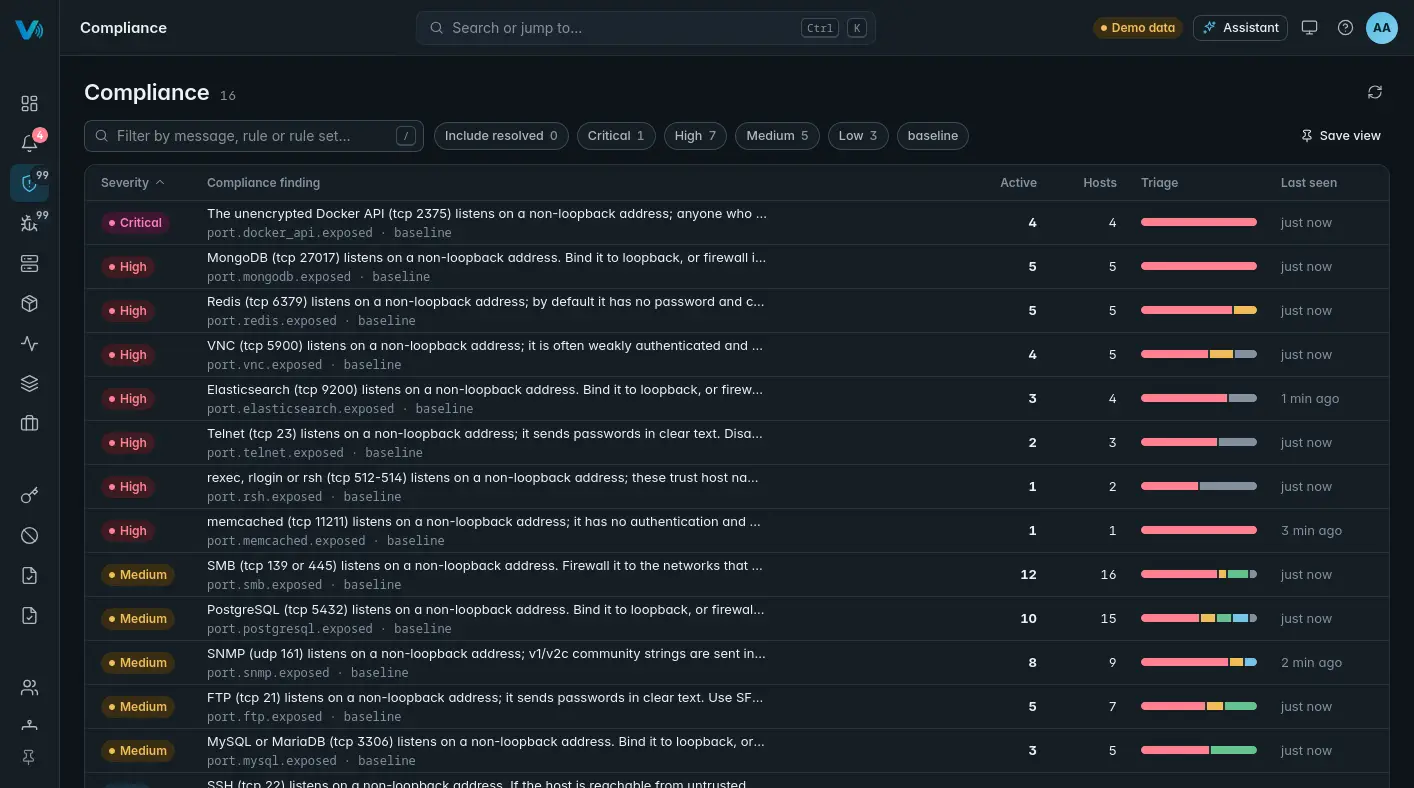
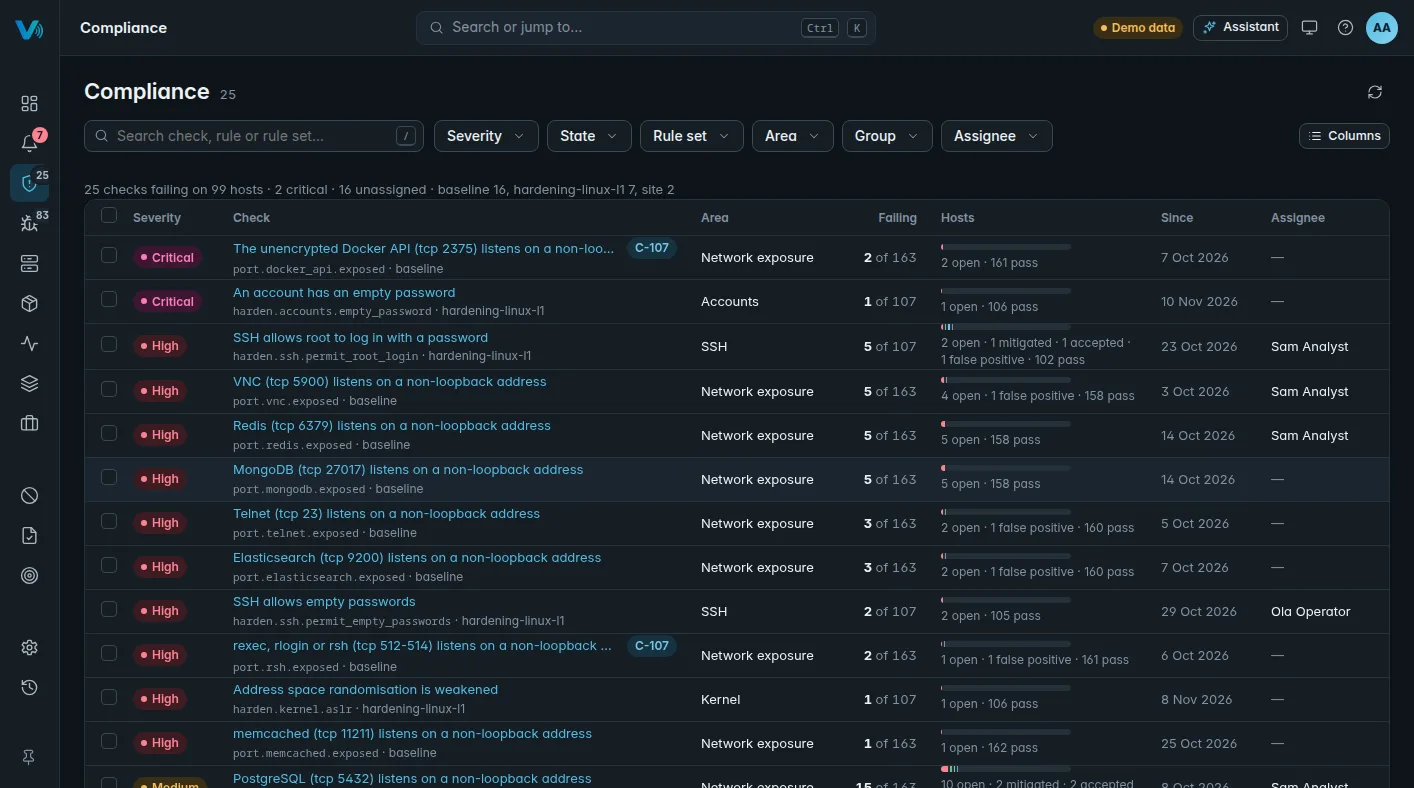
Site and README for 0.3.0
The site says Release 0.3, lists what 0.3 brought and what comes next,
adds the Windows agent preview, and uses the current admin menu and
Enrollment wording. The five screenshots are new, from the demo. The
README is short; publishing and key replacement move to
docs/publishing.md.

Part of openvibes-project/openvibes-platform#595.

diff --git a/index.html b/index.html
@@ -25,7 +25,7 @@
         <li><a href="https://github.com/openvibes-project">GitHub</a></li>
       </ul>
     </nav>
-    <span class="pill">Early release 0.2 · free and open source (Apache 2.0)</span>
+    <span class="pill">Release 0.3 · free and open source (Apache 2.0)</span>
     <h1>See what runs on your machines, and what threatens them.</h1>
     <p class="lead">A light, self-hosted security platform for homelabs and small businesses: vulnerabilities, compliance, threat alarms and an optional AI assistant that runs on your platform, in one fast console.</p>
     <div class="btns">
@@ -34,7 +34,7 @@
       <span class="note">Free · self-hosted · platform on Fedora 44</span>
     </div>
     <div class="frame"><div class="bar" aria-hidden="true"><i></i><i></i><i></i></div>
-      <img class="screen" src="assets/dashboard.webp" width="1414" height="788" alt="The OpenVIBES console's dashboard: active alarms, critical and high findings and exploited vulnerabilities with their trends, what needs attention first, and the most exposed hosts.">
+      <img class="screen" src="assets/dashboard.webp" width="1414" height="788" alt="The OpenVIBES console's dashboard: active alarms, critical and high findings and exploited vulnerabilities with their trends, what needs attention first, findings by severity and the most exposed hosts.">
     </div>
   </div>
 </header>
@@ -48,19 +48,19 @@
     <h3>Know what's vulnerable</h3>
     <p>Every host reports its installed software. OpenVIBES matches it against the distributions' own security advisories and puts known-exploited vulnerabilities first.</p>
     <ul><li>Fedora, Debian, Ubuntu, Rocky Linux and AlmaLinux advisories</li><li>Software, open ports and services per host</li></ul>
-  </div><div class="shot"><img class="screen" src="assets/vulnerabilities.webp" width="1414" height="788" loading="lazy" alt="The Vulnerabilities view: security advisories with their severity, CVSS and EPSS scores, known-exploited markers and the number of affected hosts."></div></div>
+  </div><div class="shot"><img class="screen" src="assets/vulnerabilities.webp" width="1414" height="788" loading="lazy" alt="The Vulnerabilities list: one row per CVE with its severity, package and fixed version, CVSS and EPSS scores, known-exploited markers, open hosts and due dates."></div></div>
 
   <div class="feat rev"><div class="txt">
     <h3>Check your baseline</h3>
-    <p>Signed compliance rules run on every host. The baseline flags services exposed to the network, such as the Docker API, Redis or a database, and risky servers like Telnet and rsh. Write your own rules and sign them on your platform.</p>
-    <ul><li>Baseline rules included</li><li>Your own rules, your own signing key</li></ul>
-  </div><div class="shot"><img class="screen" src="assets/compliance.webp" width="1414" height="788" loading="lazy" alt="The Compliance view: baseline findings such as an exposed Docker API, MongoDB or Redis, by severity, with how many hosts each affects and their triage."></div></div>
+    <p>Signed rules run on every host. The baseline flags services exposed to the network, such as the Docker API, Redis or a database, and risky servers like Telnet and rsh. Linux hardening checks sshd, kernel settings, file permissions, mounts and more. Write your own rules and sign them on your platform.</p>
+    <ul><li>Baseline and Linux hardening rules included</li><li>Choose which host groups run which rules</li><li>Your own rules, your own signing key</li></ul>
+  </div><div class="shot"><img class="screen" src="assets/compliance.webp" width="1414" height="788" loading="lazy" alt="The Compliance list: one row per failing check, such as an exposed Docker API, an account with an empty password or SSH allowing root to log in with a password, with how many hosts fail it."></div></div>
 
   <div class="feat"><div class="txt">
     <h3>Hear about threats in seconds</h3>
     <p>The agent watches every program start, with eBPF and kernel audit as the fallback. A web server starting a shell is in your console seconds later, with why the rule fired and the process tree.</p>
-    <ul><li>Built-in rules, e.g. a web or database server starting a shell</li><li>Quiet by default; suppress what is normal for you</li><li>Triage, cases and an audit trail</li></ul>
-  </div><div class="shot"><img class="screen" src="assets/alarm.webp" width="1414" height="788" loading="lazy" alt="An alarm, 'A web server started a shell', with the condition that matched and the values seen."></div></div>
+    <ul><li>Built-in rules, e.g. a web or database server starting a shell, each mapped to MITRE ATT&amp;CK</li><li>Quiet by default; suppress what is normal for you, with a second person's approval if you want it</li><li>Triage, cases and an audit trail</li></ul>
+  </div><div class="shot"><img class="screen" src="assets/alarm.webp" width="1414" height="788" loading="lazy" alt="The Alarms list: a web server or a database server that started a shell, and a shell that downloaded a program and ran it, each with its host, MITRE ATT&amp;CK techniques, count and state."></div></div>
 
   <div class="feat rev"><div class="txt">
     <h3>Ask in plain words</h3>
@@ -84,24 +84,25 @@
 
 <section class="block"><div class="wrap">
   <div class="kicker">Where it stands</div>
-  <h2>An early release, moving fast</h2>
+  <h2>Young, and moving fast</h2>
   <div class="two">
     <div class="box"><h3>Runs on today</h3><ul>
       <li>Platform: Fedora 44 (x86_64), online or with no internet at all (<a href="packages.html#offline">offline kit</a>), 2 GB RAM and 1 vCPU: in the lab that size served 500 simulated agents without swapping</li>
       <li>Agents: Fedora 44, AlmaLinux and Rocky Linux 9+, Debian 12+, Ubuntu 22.04+ and Arch (x86_64), each from its own signed package, installed with the command the console gives you</li>
+      <li>Windows agent (preview): Windows 10 and 11, Windows Server 2016 to 2025; software inventory for now</li>
       <li>Threat alarms from eBPF on Linux 5.8 and later (kernel audit as the fallback)</li>
-      <li>Vulnerability data for Fedora, Debian, Ubuntu, Rocky Linux and AlmaLinux hosts</li>
+      <li>Vulnerability data for Fedora, Debian, Ubuntu, Rocky Linux and AlmaLinux hosts, also without internet, from a mirror or a file</li>
     </ul></div>
-    <div class="box"><h3>Coming in 0.3</h3><ul>
-      <li>A rebuilt admin menu on the platform host: guided install, update with a backup first, repair, certificates and optional parts</li>
-      <li>Roles and permissions: your own roles, host groups and labels, and suppressions that need a second person's approval</li>
-      <li>Linux hardening checks (sshd, sysctls, file modes, mounts and more), switched on per host group</li>
-      <li>New list and detail pages with saved views, starting with Hosts and Alarms</li>
-    </ul><h3>After that</h3><ul>
+    <div class="box"><h3>New in 0.3</h3><ul>
+      <li>Roles and people: your own roles, host groups and labels, and single sign-on through SAML</li>
+      <li>Linux hardening checks on every host, switched per host group</li>
+      <li>A list and a page for everything: hosts, alarms, vulnerabilities, compliance, software, ports, services and cases, with saved views</li>
+      <li>A finished admin menu on the platform host: guided install, updates with a backup first, repair and certificates that renew themselves</li>
+    </ul><h3>Next</h3><ul>
+      <li>Fully offline agent install from the console (0.3.1)</li>
       <li>Alarms from your UniFi gateway's IPS/IDS, set up in the console</li>
-      <li>Fully offline agent install from the console</li>
+      <li>Windows: ports, services, threat alarms and vulnerability matching</li>
       <li>Platform on AlmaLinux and Rocky Linux</li>
-      <li>Windows agent</li>
     </ul></div>
   </div>
 </div></section>
@@ -112,8 +113,8 @@
   <ol class="steps">
     <li class="step"><span class="n" aria-hidden="true">1</span><div><b>Install the platform</b> on a Fedora 44 host, as your own user:
       <pre><code>sudo sh -c "$(curl -fsSL https://openvibes-project.github.io/install.sh)"</code></pre></div></li>
-    <li class="step"><span class="n" aria-hidden="true">2</span><div><b>Run Setup.</b> It opens by itself: enter the host name others will use, press Start, and write down the admin password it shows once.</div></li>
-    <li class="step"><span class="n" aria-hidden="true">3</span><div><b>Add hosts</b> from the console: Enrollment → Add a host → Copy CLI install, then paste it into a root shell on each host.</div></li>
+    <li class="step"><span class="n" aria-hidden="true">2</span><div><b>Install.</b> The admin menu opens by itself: choose Quick install, enter the host name your other hosts will use, choose Install, and write down the admin password it shows at the end.</div></li>
+    <li class="step"><span class="n" aria-hidden="true">3</span><div><b>Add hosts</b> from the console: Settings › Enrollment › Add a host gives you a command to run as root on each Linux host, and an install line for Windows.</div></li>
   </ol>
   <p class="note">Full walkthrough: the <a href="https://github.com/openvibes-project/openvibes-platform/blob/main/docs/quick-setup.md">quick setup guide</a>. Prefer to read the script first? Download <a href="install.sh">install.sh</a>, read it, then run <code>sudo sh install.sh</code>. No output at all means the download failed. Package repository and signing key: <a href="packages.html">Packages</a>.</p>
 </div></section>

diff --git a/packages.html b/packages.html
@@ -25,8 +25,8 @@
 <section class="block">
   <h2>Install the platform</h2>
   <pre><code>sudo sh -c "$(curl -fsSL https://openvibes-project.github.io/install.sh)"</code></pre>
-  <p>It adds this repository, installs the administration tool and opens its Setup. No output at all means the download failed: check your connection and run it again. Safer: download <a href="install.sh">install.sh</a>, read it, then run <code>sudo sh install.sh</code>.</p>
-  <p>In Setup, choose the assistant and answer <b>Y</b> to download the model. To add it later, turn the assistant on in Setup: it downloads the model itself.</p>
+  <p>It adds this repository, installs the administration tool and opens its Install screens. No output at all means the download failed: check your connection and run it again. Safer: download <a href="install.sh">install.sh</a>, read it, then run <code>sudo sh install.sh</code>.</p>
+  <p>For the assistant, tick it under Optional in Choose what to install: the install downloads the model. To add it later: <code>sudo openvibes-admin</code>, then Maintenance › Optional parts.</p>
 </section>
 <section class="block" id="offline">
   <h2>Install without internet</h2>
@@ -42,7 +42,7 @@
 </section>
 <section class="block">
   <h2>Add an agent</h2>
-  <p>In the console: Enrollment → Add a host, then Copy CLI install or Install package. On the platform host, <code>sudo openvibes-admin agent command</code> prints the same command.</p>
+  <p>In the console: Settings › Enrollment › Add a host, then the install command or Install package (Linux), or the Windows line. On the platform host, <code>sudo openvibes-admin agent command</code> prints the same command.</p>
 </section>
 <section class="block">
   <h2>The repositories</h2>

diff --git a/README.md b/README.md
@@ -1,71 +1,47 @@
 <p align="center">
   <picture>
     <source media="(prefers-color-scheme: dark)" srcset="assets/wordmark-dark.svg">
-    <img src="assets/wordmark-light.svg" alt="OpenVIBES" width="560">
+    <img src="assets/wordmark-light.svg" alt="OpenVIBES" width="520">
   </picture>
 </p>
 
 <h3 align="center">OpenVIBES website and packages</h3>
 
 <p align="center">
-  The website, the signed package repositories (RPM, apt, pacman) and the
-  installer, published at <a href="https://openvibes-project.github.io/">openvibes-project.github.io</a>.
+  The website of <a href="https://github.com/openvibes-project">OpenVIBES</a>, its installer and its signed package
+  repositories, published at <a href="https://openvibes-project.github.io/">openvibes-project.github.io</a>.
 </p>
 
----
+## What's here
 
-The OpenVIBES package repository and installer, published at
-<https://openvibes-project.github.io/>:
+- **The website:** `index.html` and `packages.html`.
+- **The installer, `install.sh`.** For a platform on Fedora 44:
 
-- `install.sh`: `sudo sh -c "$(curl -fsSL https://openvibes-project.github.io/install.sh)"`
-  installs the platform's administration tool and opens its Setup;
-  `curl -fsSL …/install.sh | sudo sh -s -- --agent --platform HOST --token TOKEN --ca-sha256 FP`
-  installs and enrolls an agent. The platform on Fedora 44; agents on
-  Fedora 44, AlmaLinux and Rocky 9+, Debian 12+, Ubuntu 22.04+ and Arch;
-  x86_64.
-- `rpm/fedora/44/x86_64/`: every released RPM of
-  [openvibes-platform](https://github.com/openvibes-project/openvibes-platform),
-  [openvibes-agent](https://github.com/openvibes-project/openvibes-agent) and
-  [openvibes-rules](https://github.com/openvibes-project/openvibes-rules),
-  with `repodata/repomd.xml.asc`. The assistant's model parts
-  (`openvibes-llm-model-part*`) are not published: the model comes from its
-  publisher.
-- `deb/`: a flat apt repository of the agent's .deb packages (`InRelease`
-  clear-signed, valid 30 days).
-- `arch/x86_64/`: a pacman repository of the agent's Arch packages
-  (`openvibes.db.sig`).
-- `packages.html`: the repositories, the key, and the platform's offline
-  kit.
-- `openvibes.gpg`: the package key, fingerprint
-  `710AD8AFB7AFE6E864C0CDC4E134BAF37786DA36` (expires 2029-09-26), also
-  written into `install.sh`. Check: `gpg --show-keys openvibes.gpg`.
+  ```sh
+  sudo sh -c "$(curl -fsSL https://openvibes-project.github.io/install.sh)"
+  ```
 
-No package is ever committed here. A release in openvibes-platform,
-openvibes-agent or openvibes-rules signs its packages (RPMs inside; .deb and
-Arch packages with a detached `.sig`) and checks them. Every 30
-minutes `.github/workflows/publish.yml` compares the release list
-(`scripts/releases.sh`) with the deployed `releases.txt`; when it changed
-(or on a push or a manual run: `gh workflow run publish.yml`), it collects
-every release
-(`scripts/collect.sh`), refuses to publish if any package fails the key
-check, indexes and signs the metadata of all three repositories
-(`scripts/build-repo.sh`), and deploys the site. It also rebuilds when the
-deployed apt index has less than 14 days of validity left. `tests/test-build-repo.sh` tests that (CI). No token is involved.
-GitHub disables schedules after 60 days without a commit here; if that
-happens, re-enable the workflow under Actions.
+  It also installs and enrolls agents; the platform console gives you that
+  command with everything filled in.
+- **Signed package repositories** for every release of the platform, the
+  agent and the rules: RPM (`rpm/`), apt (`deb/`) and pacman (`arch/`).
+- **The package key**, `openvibes.gpg`, fingerprint
+  `710AD8AFB7AFE6E864C0CDC4E134BAF37786DA36`. Check it with
+  `gpg --show-keys openvibes.gpg`.
 
-## Replacing the key
+No package is committed here. A workflow collects the signed packages from
+each release, checks them against the key, and publishes the site.
+How that works, and how to replace the key:
+[`docs/publishing.md`](docs/publishing.md).
 
-1. Generate the new key and add its public half next to the old one in
-   `openvibes.gpg` and in both code repositories'
-   `packaging/rpm/openvibes-packages.gpg`.
-2. Replace the organisation secrets `RPM_SIGNING_KEY` and
-   `RPM_SIGNING_PASSPHRASE`; make a new release of each code repository so
-   every published package is signed by the new key (or re-sign the old
-   releases' assets).
-3. Update `KEY_FINGERPRINT` in `install.sh` and the fingerprint here and in
-   `index.html`; publish.
-4. Remove the old public key; publish. Revoke it if it was compromised
-   (the revocation certificate is kept offline with the secret key).
+## Contributing
 
-Spec: openvibes-platform `docs/specs/2026-09-27-releases-design.md`.
+Issues and pull requests are welcome; see [`CONTRIBUTING.md`](CONTRIBUTING.md).
+Security problems: please use private vulnerability reporting, not a public
+issue.
+
+**AI disclosure:** OpenVIBES is built with the help of AI coding tools
+(Claude Code and Codex). Every change goes through a pull request and the
+full CI before it is merged.
+
+Licensed under the [Apache License 2.0](LICENSE).

diff --git a/docs/publishing.md b/docs/publishing.md
@@ -1,0 +1,61 @@
+# Publishing the site and the package repositories
+
+How the site and its package repositories are built, and how to replace
+the signing key. The [README](../README.md) says what is published.
+
+## What is published
+
+- `install.sh`: `sudo sh -c "$(curl -fsSL https://openvibes-project.github.io/install.sh)"`
+  installs the platform's administration tool and opens its Setup;
+  `curl -fsSL …/install.sh | sudo sh -s -- --agent --platform HOST --token TOKEN --ca-sha256 FP`
+  installs and enrolls an agent. The platform on Fedora 44; agents on
+  Fedora 44, AlmaLinux and Rocky 9+, Debian 12+, Ubuntu 22.04+ and Arch;
+  x86_64.
+- `rpm/fedora/44/x86_64/`: every released RPM of
+  [openvibes-platform](https://github.com/openvibes-project/openvibes-platform),
+  [openvibes-agent](https://github.com/openvibes-project/openvibes-agent) and
+  [openvibes-rules](https://github.com/openvibes-project/openvibes-rules),
+  with `repodata/repomd.xml.asc`. The assistant's model parts
+  (`openvibes-llm-model-part*`) are not published: the model comes from its
+  publisher.
+- `deb/`: a flat apt repository of the agent's .deb packages (`InRelease`
+  clear-signed, valid 30 days).
+- `arch/x86_64/`: a pacman repository of the agent's Arch packages
+  (`openvibes.db.sig`).
+- `packages.html`: the repositories, the key, and the platform's offline
+  kit.
+- `openvibes.gpg`: the package key, fingerprint
+  `710AD8AFB7AFE6E864C0CDC4E134BAF37786DA36` (expires 2029-09-26), also
+  written into `install.sh`. Check: `gpg --show-keys openvibes.gpg`.
+
+## How it is built
+
+No package is ever committed here. A release in openvibes-platform,
+openvibes-agent or openvibes-rules signs its packages (RPMs inside; .deb and
+Arch packages with a detached `.sig`) and checks them. Every 30
+minutes `.github/workflows/publish.yml` compares the release list
+(`scripts/releases.sh`) with the deployed `releases.txt`; when it changed
+(or on a push or a manual run: `gh workflow run publish.yml`), it collects
+every release
+(`scripts/collect.sh`), refuses to publish if any package fails the key
+check, indexes and signs the metadata of all three repositories
+(`scripts/build-repo.sh`), and deploys the site. It also rebuilds when the
+deployed apt index has less than 14 days of validity left. `tests/test-build-repo.sh` tests that (CI). No token is involved.
+GitHub disables schedules after 60 days without a commit here; if that
+happens, re-enable the workflow under Actions.
+
+## Replacing the key
+
+1. Generate the new key and add its public half next to the old one in
+   `openvibes.gpg` and in both code repositories'
+   `packaging/rpm/openvibes-packages.gpg`.
+2. Replace the organisation secrets `RPM_SIGNING_KEY` and
+   `RPM_SIGNING_PASSPHRASE`; make a new release of each code repository so
+   every published package is signed by the new key (or re-sign the old
+   releases' assets).
+3. Update `KEY_FINGERPRINT` in `install.sh` and the fingerprint here and in
+   `index.html`; publish.
+4. Remove the old public key; publish. Revoke it if it was compromised
+   (the revocation certificate is kept offline with the secret key).
+
+Spec: openvibes-platform `docs/specs/2026-09-27-releases-design.md`.
